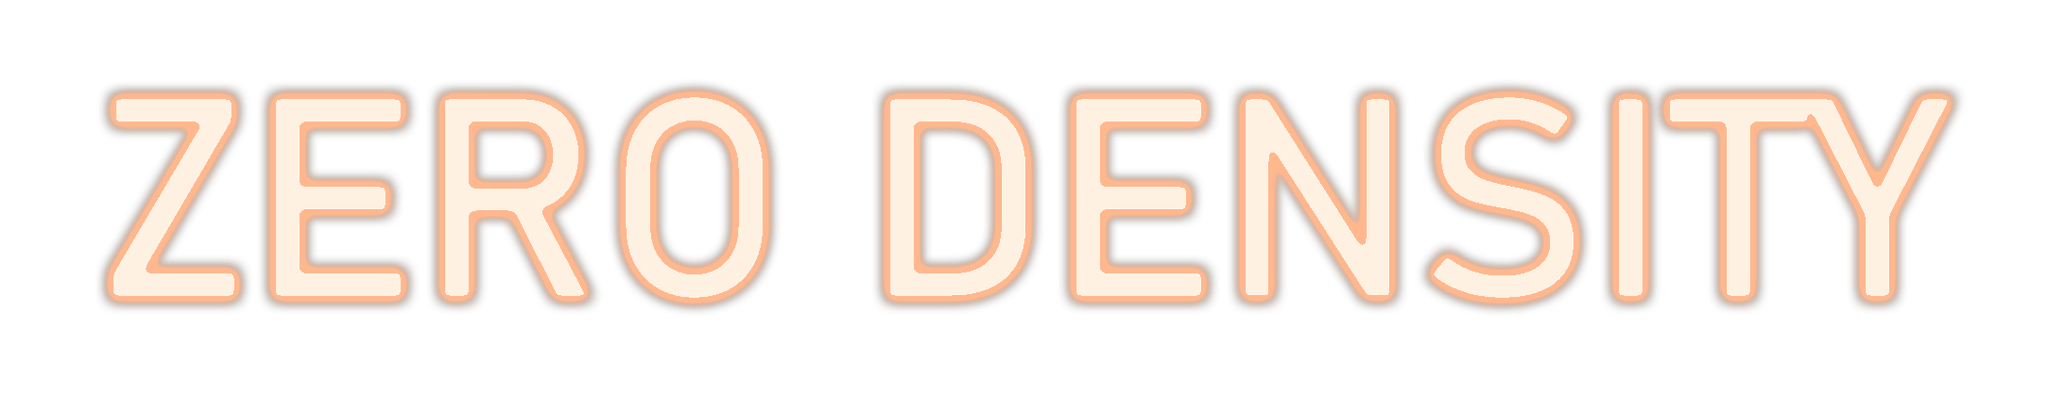
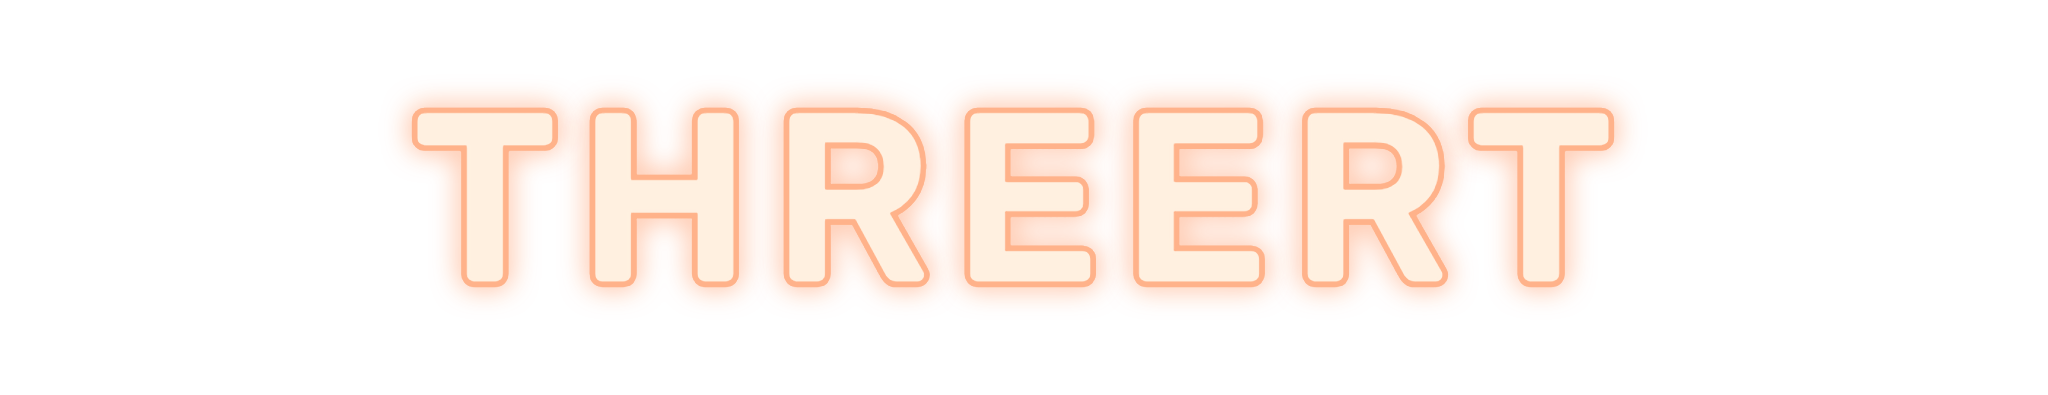
demos: the Studio sign reads THREERT (tools/make-sign.mjs draws it); the unused SIGNAL texture is gone

diff --git a/demos/build.ts b/demos/build.ts
@@ -31,7 +31,6 @@ export const DEMOS = [
 const FILES: [string, string][] = [
   ["ThreeRT/assets/models/stanford_bunny.glb", "demos/assets/models/stanford_bunny.glb"],
   ["studio/assets/neon-sign.png", "demos/assets/studio/neon-sign.png"],
-  ["studio/assets/neon-signal.png", "demos/assets/studio/neon-signal.png"],
   ["ThreeRT/assets/polyhaven/models/fire_hydrant_1k.glb", "assets/polyhaven/models/fire_hydrant_1k.glb"],
 ];
 
@@ -70,7 +69,7 @@ for (const d of DEMOS) {
   console.log(`${d.id}: game ${(b.bytes / 1024).toFixed(0)} KiB`);
 }
 
-if (!existsSync(join(repoRoot, FILES[3][1]))) {
+if (!existsSync(join(repoRoot, FILES[2][1]))) {
   execFileSync(process.execPath, [join(repoRoot, "tools/fetch-polyhaven.ts"), "--res", "1k", "--textures", "", "--models", "fire_hydrant"], { cwd: repoRoot, stdio: "inherit" });
 }
 for (const [to, from] of FILES) {

diff --git a/demos/pages/studio/index.html b/demos/pages/studio/index.html
@@ -63,7 +63,7 @@
   #status { min-height: 18px; }
 </style>
 </head>
-<body data-assets="../" data-files="studio/assets/neon-sign.png,studio/assets/neon-signal.png">
+<body data-assets="../" data-files="studio/assets/neon-sign.png">
 <script src="../loader.js"></script>
   <div id="stage">
     <canvas id="view" width="1280" height="720"></canvas>
